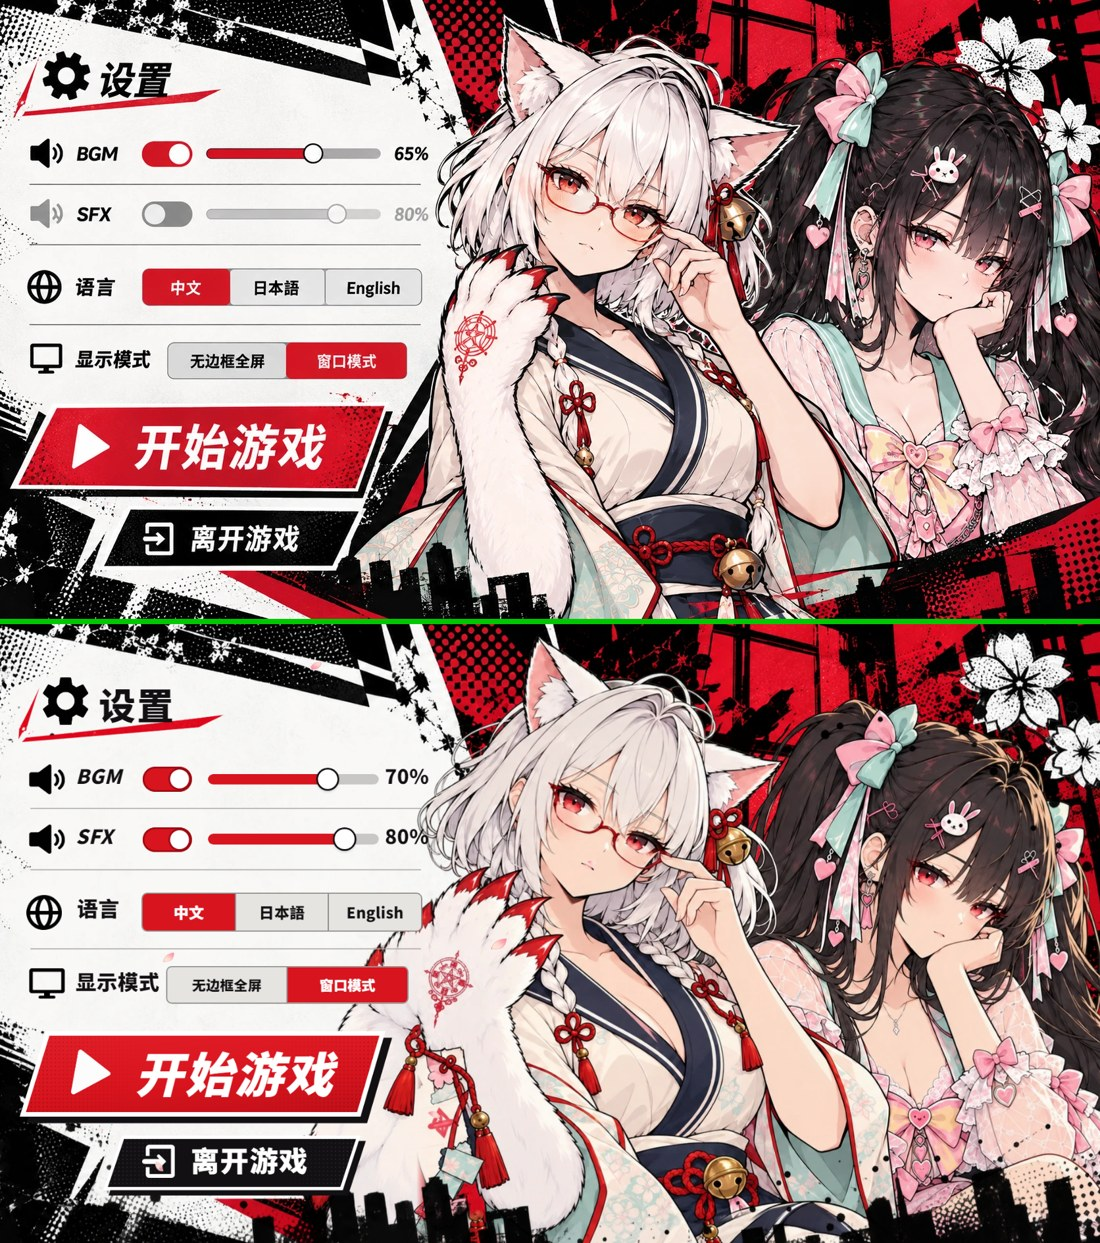
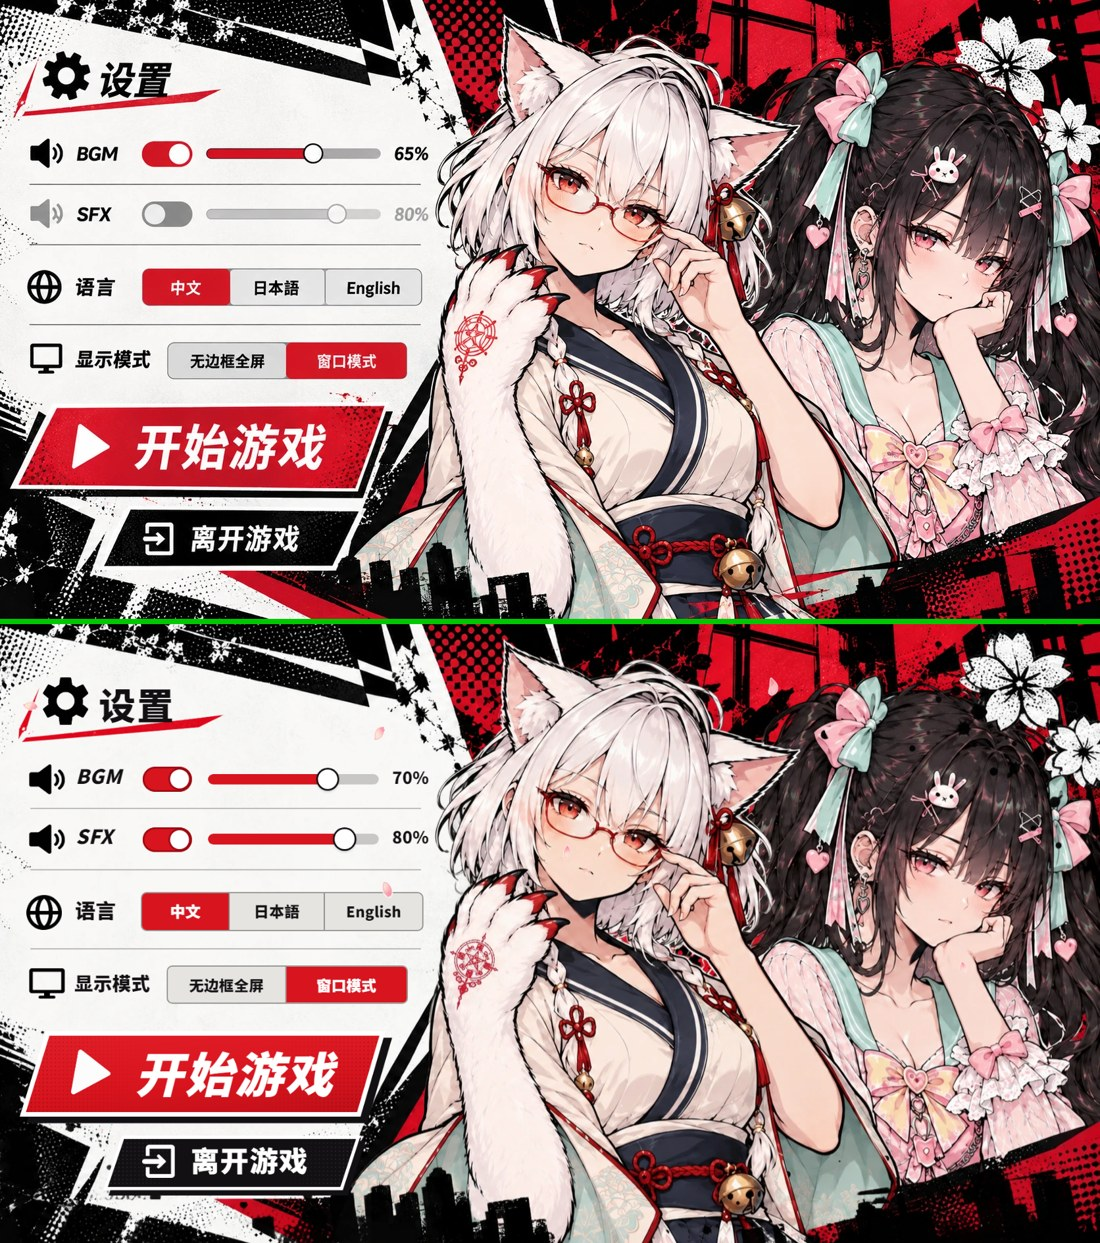
标题页人物改为参考图原样抠出；语言/显示/百分比按参考图逐像素对齐
- 人物：Codex 从 ui_p5.png 原样抠出（偏移 0），只换标准咒印；参考图里挡在人物前的剪影/红黑块用参考图像素填回
- 前景层去掉参考图里没有的墨点
- 语言三格按参考图不等宽分界；标签、选项、百分比字号位置实测到 1px 内
- 百分比 100% 时自动缩小，不压拖动条
- 作废：t_girls_ext / R16 补画方案

Changed region(s): [[0.0618, 0.5197, 1.0, 1.0], [0.0927, 0.9477, 0.2473, 1.0]]

diff --git a/src/ui/title.js b/src/ui/title.js
@@ -103,7 +103,7 @@ export function showTitle(act) {
     const row = el('div', 'row', U); row.dataset.id = R.id;
     const hl = el('div', 'rowhl', row); Object.assign(hl.style, { left: px(30), top: px(R.y - 34), width: px(626), height: px(68) });
     const icon = put(row, R.icon.img, R.icon.box, 'ico');
-    const lab = text(row, R.label, 'lab', null, R.toggle.box[0] - R.label.x - 12); Object.assign(lab.style, { left: px(R.label.x), top: px(R.y - R.label.size * 0.68) });
+    const lab = text(row, R.label, 'lab', null, R.toggle.box[0] - R.label.x - 12); Object.assign(lab.style, { left: px(R.label.x), top: px((R.label.y ?? R.y) - R.label.size * 0.68) });
     const tg = el('div', 'tg', row); box(tg, R.toggle.box); tg.dataset.cur = 'hover';
     el('div', 'knob', tg);
     const sl = el('div', 'sl', row); sl.dataset.cur = 'grab';
@@ -111,8 +111,9 @@ export function showTitle(act) {
     const track = el('div', 'track', sl), fill = el('div', 'fill', track), knob = el('div', 'knob', sl);
     Object.assign(track.style, { left: px(14), right: px(14), top: px(22 - R.slider.h / 2), height: px(R.slider.h) });
     Object.assign(knob.style, { width: px(R.slider.knob * 2), height: px(R.slider.knob * 2), top: px(22 - R.slider.knob) });
-    const val = el('div', 'tx val', row); val.style.fontSize = px(R.value.size);   // a number, not a translation: not in texts
-    Object.assign(val.style, { right: px(L.refSize[0] - R.value.x1), top: px(R.y - R.value.size * 0.68) });
+    const val = el('div', 'tx val', row);   // a number, not a translation: not in texts
+    const vy = R.value.y ?? R.y, room = (R.value.x1 - R.slider.x1 - R.slider.knob - 6) * RS;   // never over the slider's end
+    val.style.right = px(L.refSize[0] - R.value.x1);
     const key = R.id, onKey = `${R.id}On`;
     const apply = () => {
       const v = SET[key] ?? 0.7, on = SET[onKey] !== false;
@@ -120,6 +121,9 @@ export function showTitle(act) {
       fill.style.width = `${v * 100}%`;
       knob.style.left = `calc(${px(14 - R.slider.knob)} + ${v} * (100% - ${px(28)}))`;
       val.textContent = `${Math.round(v * 100)}%`;
+      val.style.fontSize = px(R.value.size);
+      const fs = val.offsetWidth > room ? R.value.size * room / val.offsetWidth : R.value.size;
+      Object.assign(val.style, { fontSize: px(fs), top: px(vy - R.value.size * 0.68 + 0.55 * (R.value.size - fs)) });   // shrinks about its centre
       row.classList.toggle('off', !on); tg.classList.toggle('on', on);
       if (has(R.icon.off)) icon.src = url(on ? R.icon.img : R.icon.off);
     };
@@ -141,11 +145,14 @@ export function showTitle(act) {
     const row = el('div', 'row seg', U);
     const hl = el('div', 'rowhl', row); Object.assign(hl.style, { left: px(30), top: px(G.y - 36), width: px(626), height: px(72) });
     put(row, G.icon.img, G.icon.box, 'ico');
-    const lab = text(row, G.label, 'lab', null, G.box[0] - G.label.x - 12); Object.assign(lab.style, { left: px(G.label.x), top: px(G.y - G.label.size * 0.7) });
+    const lab = text(row, G.label, 'lab', null, G.box[0] - G.label.x - 12); Object.assign(lab.style, { left: px(G.label.x), top: px((G.label.y ?? G.y) - G.label.size * 0.7) });
     const bar = el('div', 'segbar', row); box(bar, G.box);
-    for (const [opt, label] of G.options) {
+    // cell edges: measured on the mockup (its cells are not equal), else equal parts
+    const edges = [G.box[0], ...(G.splits || G.options.slice(1).map((_, i) => G.box[0] + (G.box[2] - G.box[0]) * (i + 1) / G.options.length)), G.box[2]];
+    for (const [i, [opt, label, size]] of G.options.entries()) {
       const o = el('div', 'opt', bar); o.dataset.cur = 'hover';
-      text(o, { size: G.size }, 'otx', label, (G.box[2] - G.box[0]) / G.options.length - 14);
+      const cw = edges[i + 1] - edges[i]; o.style.flex = `0 0 ${px(cw)}`;
+      text(o, { size: size || G.size }, 'otx', label, cw - 14);
       segs.push({ o, opt, group: G.id });
       o.onpointerdown = (e) => {
         e.stopPropagation(); sfx.ui(); pop(o, e);

diff --git a/src/ui/title.css b/src/ui/title.css
@@ -53,7 +53,7 @@
 
 /* segmented choices */
 .ttl .segbar { position: absolute; display: flex; border-radius: 8px; box-shadow: 0 0 0 2px var(--greyDark); background: #e6e4e1; overflow: hidden; }
-.ttl .opt { position: relative; flex: 1; display: flex; align-items: center; justify-content: center; cursor: pointer; border-right: 2px solid var(--greyDark); transition: background 0.15s, color 0.15s; }
+.ttl .opt { position: relative; flex: 1; box-sizing: border-box; display: flex; align-items: center; justify-content: center; cursor: pointer; border-right: 2px solid var(--greyDark); transition: background 0.15s, color 0.15s; }
 .ttl .opt:last-child { border-right: 0; }
 .ttl .opt .tx { position: static; font-weight: 700; transition: translate 0.15s cubic-bezier(0.2, 1.6, 0.4, 1); }
 .ttl .opt.on { background: var(--red); }

diff --git a/tools/r17_import.py b/tools/r17_import.py
@@ -1,0 +1,55 @@
+"""Title girls = the girls of the mockup itself (art/ref/ui_p5.png): Codex only separated them from the background
+(tools/job_specs17.py -> art/raw/r17/girls_ref.png, same 1672x941 frame, checked: 0 px offset to the mockup), then
+tools/seal_fix.py put the canonical seal on the paw (entry t_girls_ref -> ui/t_girls_ref).
+This step only repeats the last row / column 16 px past the bottom and right edge, where the girls run out of the frame,
+so the parallax shift never opens a gap there. Nothing inside the frame changes.
+usage: python -I tools/seal_fix.py t_girls_ref && python -I tools/r17_import.py"""
+import json, pathlib
+import numpy as np
+from PIL import Image
+from scipy import ndimage
+
+ROOT = pathlib.Path(__file__).resolve().parent.parent
+OUT = ROOT / "public" / "content" / "base" / "assets"
+PAD = 16
+W0, H0 = 1672, 941
+MOCK = ROOT / "art" / "ref" / "ui_p5.png"
+# In the mockup the red / black halftone shapes along the bottom lie IN FRONT of the girls (the pink dress stops there).
+# Codex drew the clothes on down to the frame edge, so where the mockup does not show them the mockup's own pixels are put
+# back (skyline, red / black shape), exactly as in the mockup. Region to look in, mockup px:
+OCCLUDE = (560, 680, W0, H0)
+
+if __name__ == "__main__":
+    p = OUT / "ui" / "t_girls_ref.webp"
+    a = np.asarray(Image.open(p).convert("RGBA"))
+    assert a.shape[:2] == (H0, W0), f"run seal_fix t_girls_ref first (needs the full {W0}x{H0} frame, got {a.shape[1]}x{a.shape[0]})"
+    m = np.asarray(Image.open(MOCK).convert("RGB")).astype(np.float32)
+    x0, y0, x1, y1 = OCCLUDE
+    # where the mockup does not show the girl, it shows something else: the colour differs a lot from the cut-out there.
+    # Blurred first so line art and small redraw differences do not count; only big areas reaching the bottom edge are taken.
+    d = np.abs(m[y0:y1, x0:x1] - a[y0:y1, x0:x1, :3].astype(np.float32)).max(-1)
+    d = ndimage.gaussian_filter(d, 4)
+    hide = (d > 70) & (a[y0:y1, x0:x1, 3] > 0)
+    hh, ww = hide.shape
+    hide = np.pad(hide, ((0, 12), (0, 12)), mode="edge")     # so the clean-up does not eat the frame edge
+    hide = ndimage.binary_opening(ndimage.binary_closing(hide, iterations=4), iterations=4)[:hh, :ww]
+    lab, n = ndimage.label(hide)
+    keep = [i for i in range(1, n + 1) if (lab == i).sum() > 5000]   # the skyline and the red / black shape, not specks
+    shape = ndimage.binary_fill_holes(np.isin(lab, keep))
+    # the blur widened the areas: trim them back to where the mockup really differs, so no halo of the plate shows round them
+    raw = ndimage.binary_dilation(ndimage.gaussian_filter(np.abs(m[y0:y1, x0:x1] - a[y0:y1, x0:x1, :3].astype(np.float32)).max(-1), 1.2) > 60, iterations=1)
+    shape &= raw
+    soft = ndimage.gaussian_filter(shape.astype(np.float32), 1.0)
+    # filled with the mockup's own pixels there (the plate's copy of those shapes sits a few px off and would show a red halo)
+    a = a.copy(); al = a[y0:y1, x0:x1, 3:].astype(np.float32) / 255; k = soft[..., None]
+    rgb = a[y0:y1, x0:x1, :3].astype(np.float32)
+    a_out = k + al * (1 - k)
+    a[y0:y1, x0:x1, :3] = ((m[y0:y1, x0:x1] * k + rgb * al * (1 - k)) / np.maximum(a_out, 1e-4)).clip(0, 255).astype(np.uint8)
+    a[y0:y1, x0:x1, 3] = (a_out[..., 0] * 255).astype(np.uint8)
+    print("occluded", int(shape.sum()), "px")
+    a = np.pad(a, ((0, PAD), (0, PAD), (0, 0)), mode="edge")
+    Image.fromarray(a).save(p, quality=92, method=6)
+    mp = OUT / "manifest.json"; man = json.loads(mp.read_text())
+    man["ui/t_girls_ref"] = {"src": "assets/ui/t_girls_ref.webp", "w": a.shape[1], "h": a.shape[0], "dom": True, "seal": "canonical"}
+    mp.write_text(json.dumps(man, indent=1, sort_keys=True))
+    print("ui/t_girls_ref", a.shape[1], a.shape[0], f"-> box [0, 0, {W0 + PAD}, {H0 + PAD}]")

diff --git a/tools/r15_import.py b/tools/r15_import.py
@@ -13,6 +13,9 @@ FULL = ("p5_back", "p5_front", "p5_plate")
 SOLID = ("icon_play",)
 # ink flecks Codex added where the controls sit (not in the mockup): cleared, in mockup pixels [x0, y0, x1, y1]
 CLEAR = {"p5_front": [[30, 185, 660, 600]]}
+# the front layer's black parts (skyline, flecks) must be where the mockup is black too: Codex added flecks elsewhere
+MATCH_DARK = ("p5_front",)
+MOCK = ROOT / "art" / "ref" / "ui_p5.png"
 if __name__ == "__main__":
     names = sys.argv[1:]
     mp = OUT / "manifest.json"; man = json.loads(mp.read_text())
@@ -24,6 +27,13 @@ if __name__ == "__main__":
         if p.stem in CLEAR:
             arr = np.asarray(im.convert("RGBA")).copy()
             for x0, y0, x1, y1 in CLEAR[p.stem]: arr[y0:y1, x0:x1, 3] = 0
+            im = Image.fromarray(arr)
+        if p.stem in MATCH_DARK:
+            arr = np.asarray(im.convert("RGBA")).copy()
+            mk = np.asarray(Image.open(MOCK).convert("L").resize((arr.shape[1], arr.shape[0]))).astype(np.int16)
+            mock_dark = ndimage.binary_dilation(mk < 100, iterations=2)
+            lum = arr[..., :3].astype(np.int16).mean(-1)
+            arr[..., 3] = np.where((lum < 90) & ~mock_dark, 0, arr[..., 3])
             im = Image.fromarray(arr)
         if p.stem in FULL:
             im = im.convert("RGB" if p.stem in ("p5_back", "p5_plate") else "RGBA").resize((1920, 1080), Image.LANCZOS)

diff --git a/tools/seal_fix.py b/tools/seal_fix.py
@@ -4,7 +4,7 @@ For each entry of art/seal_placements.json:
   1. the generated seal is erased: red line pixels inside "erase" [x0, y0, x1, y1] are filled from the fur around them;
   2. the canonical decal is laid on: its ring centre on "center" [x, y], ring diameter "ring" px, rotated "rot" degrees
      (counter-clockwise = the pendant swings to the right), optionally squashed by "squash" (foreshortening);
-  3. the result goes to the base pack as ui/<out>.webp (or a PNG path with "png").
+  3. the result goes to the base pack as ui/<out>.webp (or a PNG path with "png"), trimmed to its pixels unless "keep_frame".
 usage: python -I tools/seal_fix.py [name ...]   (no names = all)   --preview <dir> writes before/after crops
 """
 import sys, json, pathlib
@@ -95,7 +95,7 @@ def run(name, p, preview=None):
     if "png" in p:
         fixed.save(ROOT / p["png"])
     else:
-        out = fixed.crop(fixed.getbbox())
+        out = fixed if p.get("keep_frame") else fixed.crop(fixed.getbbox())   # keep_frame: layers placed 1:1 on a mockup
         mp = OUT / "manifest.json"; man = json.loads(mp.read_text())
         out.save(OUT / "ui" / f"{p['out']}.webp", quality=92, method=6)
         man[f"ui/{p['out']}"] = {**man.get(f"ui/{p['out']}", {}), "src": f"assets/ui/{p['out']}.webp", "w": out.width, "h": out.height, "dom": True, "seal": "canonical"}

diff --git a/tools/job_specs17.py b/tools/job_specs17.py
@@ -1,0 +1,16 @@
+# Round 17: the girls on the title screen must be the girls of the reference mockup (art/ref/ui_p5.png), same pose, same place.
+# Codex only separates them from the background; the import aligns the result back onto the mockup 1:1.
+NOREDESIGN = "This is NOT a redesign task. "
+MOCK = "art/ref/ui_p5.png"
+
+JOBS = {
+    "R17_girls": [
+        ("art/raw/r17/girls_ref.png", [MOCK],
+         "Reference image 1 is an approved game title / settings screen. " + NOREDESIGN +
+         "Output the SAME 16:9 image with ONLY the two anime girls kept, exactly as they are drawn in reference image 1: the same pose, the same faces, hair, "
+         "ears, glasses, hands, the raised white fur paw arm with red claws, clothes, bells, ribbons and colors, at exactly the same position and size in the frame, "
+         "pixel for pixel. Do not move, redraw, restyle or re-pose them. Where a small part of a girl is hidden behind the black city silhouette at the bottom or "
+         "behind the white sakura flowers, continue that part of the girl as it obviously continues. Everything else (the white settings panel with all its UI, "
+         "the red and black background, the sakura, the city silhouette, the ink flecks) removed and fully transparent."),
+    ],
+}

diff --git a/docs/进度.md b/docs/进度.md
@@ -70,16 +70,26 @@
   - **标题+设置屏（红黑白版）已做完**，和参考图并排对照：`art/ref/title_p5_vs_reference.jpg`（上参考、下实机）。
   - 画面分层（鼠标视差）：
     1. 整版底图 `ui/p5_plate`：白面板 + 红黑背景，Codex 照参考图原样去掉人物和 UI；
-    2. 两位主角 `ui/t_girls_ext`；
+    2. 两位主角 `ui/t_girls_ref`：就是参考图里的人物，原样抠出，见下面"人物"一条；
     3. 前景装饰 `ui/p5_front`：樱花、城市剪影、墨点；
     4. UI 层：和底图同一视差深度，不会在白面板上漂。
   - 程序画的部分：开关、滑条、分段选择、开始/离开斜切按钮、分隔线。尺寸全部照参考图量出来写在 `ui/title.json`（参考图像素）。
   - 图标、标题斜杠也由 Codex 照参考图原样拆出（`tools/job_specs15.py`，导入 `tools/r15_import.py`）。
   - 文字：用打包的 Noto Sans SC 700/900 粗体，和参考图一致。原因是三种语言 + 百分比数字是动态的。
     - 翻译较长时自动缩小，不会压到旁边的控件。
-  - 主角层原图左边袖子和底部是直线切断的，上屏很明显。修法：
-    - Codex 只往外补画（`tools/job_specs16.py`）；
-    - `tools/r16_import.py` 对齐后把原图像素盖回去，咒印仍是标准咒印，只取切口外的新画部分，切口处 24px 渐变。
+  - **人物（用户强调）**：参考图里画了什么人物、什么姿势，就用什么。不许拿别处的立绘顶替，也不许把一张图到处复用。
+    - 之前错用了自己早先做的一张人物层，姿势和参考图不同，被用户骂了。那张图和补画的 `t_girls_ext`、R16 已作废。
+    - 现在的做法：
+      1. Codex 从参考图原样抠人物（`tools/job_specs17.py`，同一画框，实测偏移 0、缩放 1.000）；
+      2. `seal_fix` 换标准咒印（条目 `t_girls_ref`，`keep_frame` 保持画框不裁）；
+      3. `tools/r17_import.py` 处理两件事：
+         - 参考图里挡在人物前面的城市剪影、右下红黑块，用参考图自己的像素填回；
+         - 右/下边缘延伸 16px，防止视差移动时露缝。
+    - 给 Codex 的提示里不要加"被挡住的部分接着画"这种参考图之外的要求。
+  - 前景层 `p5_front`：Codex 自己多加的墨点已去掉。规则是只保留参考图里同样是黑色的位置，UI 区域清空。
+  - 文字、格子尺寸都按参考图逐个量：用像素边界比对，误差 1px 内。
+    - 语言三格在参考图里不等宽，用 `splits` 写分界线；
+    - 百分比到 100% 时自动缩小，不压拖动条。
   - 交互已实测：
     - 开关（关掉整行变灰、喇叭换静音图标）、滑条拖动（5% 一档）；
     - 语言切换（全部文字即时换，数字不受影响）、显示模式；

diff --git a/art/jobs/R17_girls.md b/art/jobs/R17_girls.md
@@ -1,0 +1,15 @@
+You are an image-production worker for a game project. Your only job is to generate the images below with your built-in image generation tool and save them. Rules:
+- Pass each PROMPT to the image tool exactly as written. Do not paraphrase, shorten, or add any style words of your own.
+- Each step lists reference images: pass them to the tool as referenced_image_paths (local paths). If the list is empty, pass none.
+- Request a transparent background unless the step says OPAQUE.
+- After each generation, copy the produced PNG to the given OUTPUT path (relative to the current working directory). Keep the alpha channel.
+- Do not write code, do not create or edit any other files, do not run anything else.
+- If a generation is refused or fails, write the exact message to OUTPUT with the extension .refused.txt and continue with the next step.
+- At the end, reply with one line per saved file: path, pixel width x height.
+
+STEP 1
+Reference images: art/ref/ui_p5.png
+OUTPUT: art/raw/r17/girls_ref.png
+Background: transparent
+PROMPT:
+Reference image 1 is an approved game title / settings screen. This is NOT a redesign task. Output the SAME 16:9 image with ONLY the two anime girls kept, exactly as they are drawn in reference image 1: the same pose, the same faces, hair, ears, glasses, hands, the raised white fur paw arm with red claws, clothes, bells, ribbons and colors, at exactly the same position and size in the frame, pixel for pixel. Do not move, redraw, restyle or re-pose them. Where a small part of a girl is hidden behind the black city silhouette at the bottom or behind the white sakura flowers, continue that part of the girl as it obviously continues. Everything else (the white settings panel with all its UI, the red and black background, the sakura, the city silhouette, the ink flecks) removed and fully transparent.
